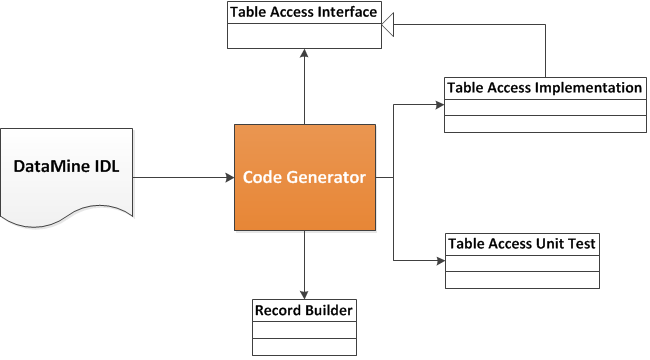
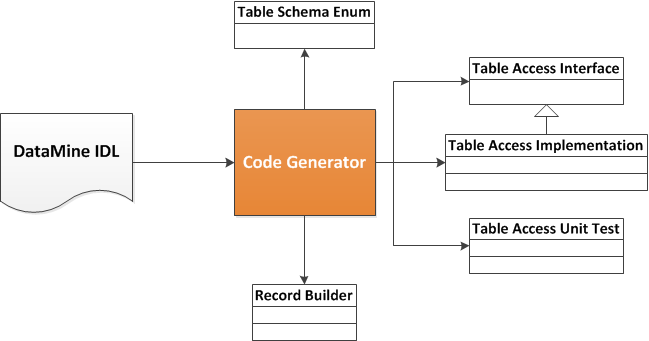
Documentation updated
1. Added a doc as the developer guide
2. Updated documents per the derived fields
3. Updated the figure for the code generation in the DataMine

diff --git a/RecordBuffers/README.md b/RecordBuffers/README.md
@@ -1,28 +1,20 @@
 # Record Buffers
 
-Record buffers are a flexible, efficient, automated mechanism for serializing structure data, especially for nested structure data. 
-It uses an interface description language (IDL) to describe the schema of data and allows the user easily to read and write the data with special generated source code. 
-Importantly record buffers support schema evolution, so it enables the deployed code for old format to work with the updated data structure.
+Record buffers are a flexible, efficient, automated mechanism for serializing structure data, especially for nested structure data. It uses an interface description language (IDL) to describe the schema of data and allows the user easily to read and write the data with special generated source code. Importantly record buffers support schema evolution, so it enables the deployed code for old format to work with the updated data structure.
 
 ## Why?
 
-Record buffers is not the only one solution while dealing with the big data problem in our case. For example, [Thrift](https://thrift.apache.org/), [Avro](http://avro.apache.org/) and [Protocol Buffers](https://code.google.com/p/protobuf/) provide the very similar ideas. However, record buffers have some advantages considering the special problem at Turn. For instance, the nested structure is normal in our application; record buffer does optimize the data accessing performance especially there is nested structure in the data. 
+Record buffers is not the only solution while dealing with the big data problem. For example, [Thrift](https://thrift.apache.org/), [Avro](http://avro.apache.org/) and [Protocol Buffers](https://code.google.com/p/protobuf/) provide the very similar ideas. However, record buffers have some advantages considering the special application at Turn. For instance, the nested structure is normal, table should be writable since the updating is a require, reading often occurs to a subset of fields of a table. Record buffers optimize the data accessing performance in these scenarios. 
 
 
-## IDL Specification
+## Table Schema
 
-Please see [DataMine IDL](../doc/DataMine_IDL.md).
+Record buffers define the table schema based on an IDL Specification. Please check the details at [DataMine IDL](../doc/DataMine_IDL.md).
 
 ## Code Generation
 <a name="code_generation"></a>
 
-
-Record buffers follow a code generation approach while building the representation layer for table access. Particularly a set of Java classes or interfaces are created automatically, including:
-
-* *Table Access Interface*: a Java interface is generated for each table defined in table schema, where the setter and getter functions are declared for each attribute of the table. 
-* *Table Access Implementation*: a Java class is generated for each table based on the file format (e.g,, row-based or column-based) and the representation in memory (e.g., POJO-class or Record Buffer).
-* *Record Builder*: a class is generated for the instance creation given a table interface. 
-* *Table Access Implementation Test*: a Java class is generated for each table defined in the table schema, to produce the data for possible unit tests. 
+Record buffers follow a code generation approach while building the representation layer for table access. Particularly a set of Java classes or interfaces are created automatically, describing table schema, table access interface, table access implementation, record builder and unit test respectively. 
 
 <img float="center" src="./doc/res/code_gen.png" width="" height="" border="0" alt="">
 
@@ -42,8 +34,8 @@ To enable such a code generation, the project POM should include the plugin belo
 						</goals>
 						<phase>${codeGenerationPhase}</phase>
 						<configuration>
-							<schemaPath>src/main/resources/AUPConf.json</schemaPath>
-							<packageName>application.package.interfaces</packageName>
+							<schemaPath>path/to/schema.json</schemaPath>				
+							<packageName>application.package.name.interfaces</packageName>
 						</configuration>
 					</execution>
 					<execution>
@@ -53,9 +45,9 @@ To enable such a code generation, the project POM should include the plugin belo
 						</goals>
 						<phase>${codeGenerationPhase}</phase>
 						<configuration>
-							<schemaPath>src/main/resources/AUPConf.json</schemaPath>
-							<packageName>application.package.operator.conversion</packageName>
-							<interfacePackageName>application.package.interfaces</interfacePackageName>
+							<schemaPath>path/to/schema.json</schemaPath>
+							<packageName>application.package.name.conversion</packageName>
+							<interfacePackageName>application.package.name.interfaces</interfacePackageName>
 						</configuration>
 					</execution>
 					<execution>
@@ -65,8 +57,8 @@ To enable such a code generation, the project POM should include the plugin belo
 						</goals>
 						<phase>${codeGenerationPhase}</phase>
 						<configuration>
-							<schemaPath>src/main/resources/AUPConf.json</schemaPath>
-							<packageName>application.package.metadata</packageName>
+							<schemaPath>path/to/schema.json</schemaPath>
+							<packageName>application.package.name.metadata</packageName>
 						</configuration>
 					</execution>
 					<execution>
@@ -76,10 +68,10 @@ To enable such a code generation, the project POM should include the plugin belo
 						</goals>
 						<phase>${codeGenerationPhase}</phase>
 						<configuration>
-							<schemaPath>src/main/resources/AUPConf.json</schemaPath>
-							<packageName>application.package.recordbuffers.wrapper</packageName>
-							<interfacePackageName>application.package.interfaces</interfacePackageName>
-							<metadataPackageName>application.package.metadata</metadataPackageName>
+							<schemaPath>path/to/schema.json</schemaPath>
+							<packageName>application.package.name.recordbuffers.wrapper</packageName>
+							<interfacePackageName>application.package.name.interfaces</interfacePackageName>
+							<metadataPackageName>application.package.name.metadata</metadataPackageName>
 						</configuration>
 					</execution>
 					<execution>
@@ -89,28 +81,10 @@ To enable such a code generation, the project POM should include the plugin belo
 						</goals>
 						<phase>${codeGenerationPhase}</phase>
 						<configuration>
-							<schemaPath>src/main/resources/AUPConf.json</schemaPath>
-							<packageName>application.package.recordbuffers.data</packageName>
-							<interfacePackageName>application.package.interfaces</interfacePackageName>
-							<metadataPackageName>application.package.metadata</metadataPackageName>
-						</configuration>
-					</execution>
-				</executions>
-			</plugin>
-			<plugin>
-				<groupId>com.turn.datamine.storage.avro</groupId>
-				<artifactId>avro-maven-plugin</artifactId>
-				<version>${datamine.version}</version>
-				<executions>
-					<execution>
-						<id>avro_parquet</id>
-						<goals>
-							<goal>avro_parquet_tables</goal>
-						</goals>
-						<phase>${codeGenerationPhase}</phase>
-						<configuration>
-							<schemaPath>src/main/resources/AUPConf.json</schemaPath>
-							<packageName>application.package.avro.parquet</packageName>
+							<schemaPath>path/to/schema.json</schemaPath>
+							<packageName>application.package.name.recordbuffers.data</packageName>
+							<interfacePackageName>application.package.name.interfaces</interfacePackageName>
+							<metadataPackageName>application.package.name.metadata</metadataPackageName>
 						</configuration>
 					</execution>
 				</executions>
@@ -119,7 +93,7 @@ To enable such a code generation, the project POM should include the plugin belo
 	</build>
 		
 
-Note that the two parameters can be configured:
+Note that there are parameters that can be configured:
 
 - *schemaPath* : the path where the schema JSON file is stored, for example, *src/main/resources/AUPConf.json*; it may be the same for all goals.
 - *packageName* : the package name of the output Java code, for example, *application.package.interfaces*; each goal may have its own unique package name. 
@@ -154,4 +128,3 @@ Currently, there are three types of attributes having their offsets in the refer
 1. The attribute as the table sort-key: it speeds up the record sorting;
 2. The attribute having the annotation of "hasRef": the attribute can be specified by the user if it is frequently accessed.
 3. The attribute of collection type (i.e., nested table): by default, any nested table has its offset stored in the referene section; according to our experience the nested table is often the hot spot. Having its offset in the reference section, it could significantly speed up some basic operations, like getting the size of the nested table. 
- 

diff --git a/doc/Developer_Guide.md b/doc/Developer_Guide.md
@@ -1,0 +1,148 @@
+# Developer Guide
+
+We will use an example to explain how to create an application using DataMine. In the application, a profile is defined to describe the user information. A user profile has not only basic attributes, such as ID, version, but also the nested tables for events, such as impressions, id mapping events, and temporal information.  DataMine allows to use JSON to define the data structure below. 
+
+Note that the example can be found at [..](../RecordBuffers/src/test/java/datamine/storage/recordbuffers/example)
+
+## Table Schema
+
+The table schema of the profile is defined in [JSON](../RecordBuffers/src/test/resources/SimpleSchema.json)
+
+	{
+	  "schema": "simple_schema",
+	  "table_list": [
+	    {
+	      "table": "attribution_result_rule",
+	      "fields": [
+	        {"id": 1,"name": "run_num",    "type": "Byte",   "isRequired": true},
+	        {"id": 2,"name": "value",      "type": "String", "default": "Unknown"}
+	      ]
+	    },
+	    {
+	      "table": "attribution_result",
+	      "fields": [
+	        {"id": 1,"name": "id","type": "Integer","isRequired": true},
+	        {"id": 2,"name": "rules",      "type": "List:attribution_result_rule", "isRequired": true}
+	      ]
+	    },
+	    {
+	      "table": "impression",
+	      "fields": [
+	        {"id": 1, "name": "media_provider_id", "type": "Integer","isRequired": true},
+	        {"id": 2,"name": "mp_tpt_category_id","type": "Short",  "default": "-1"},
+	        {"id": 3,"name": "truncated_url",     "type": "String", "default": "Unknown"},
+	        {"id": 4,"name": "bid",         "type": "Boolean",  "default": "true"},
+	        {"id": 5,"name": "bid_type",          "type": "Byte",   "default": "-1"},
+	        {"id": 6,"name": "attribution_results","type": "List:attribution_result"},
+	        {"id": 7,"name": "allowed_ad_formats","type": "Long",   "default": "-1"},
+			{"id": 8,"name": "cost","type": "Double",   "default": "0"}
+			]
+	    },
+	    {
+	      "table": "provider_user_id",
+	      "fields": [
+	        {"id": 1,"name": "provider_type",          "type": "Byte",   "isRequired": true},
+	        {"id": 2,"name": "provider_id",            "type": "Integer","isRequired": true}
+	      ]
+	    },
+	    {
+	      "table": "id_map",
+	      "fields": [
+	        {"id": 1,"name": "media_provider_ids","type": "List:provider_user_id"}
+	      ]
+	    },
+	    {
+	      "table": "analytical_user_profile",
+	      "fields": [
+	        {"id": 1,"name": "user_id",                 "type": "Long",   "isRequired": true, "isFrequentlyUsed": true},
+	        {"id": 2,"name": "version",         "type": "Byte", "isRequired": true, "isDesSortKey": true},
+	        {"id": 3,"name": "resolution",      "type": "Short",  "default": "-1"},
+	        {"id": 4,"name": "os_version",      "type": "String", "default": "Unknown"},
+	        {"id": 5,"name": "impressions",            "type": "List:impression"},
+	        {"id": 6,"name": "id_maps",                "type": "id_map"},
+			{"id": 7, "name": "time_list",     "type": "List:Integer"},
+			{"id": 0, "name": "day",     "type": "String", "isDerived": true, "default": "Unknown"}
+	      ]
+	    }
+	  ]
+	}
+
+
+## Code Generation
+
+DataMine implements a set of code generator to help the user create Java classes through which the user can write its program to read, write and process the profile data. To trigger the code generation when building the application, POM needs some [changes](../RecordBuffers#code_generation). 
+
+To simplify the example, a class [GenerateTestData.java](../RecordBuffers/src/test/java/datamine/storage/recordbuffers/example/GenerateTestData.java) is created to generate all codes. 
+
+## Derived Field Support
+
+DataMine allows derived attribute in the table. The value of a derived field is calculated on the fly instead of stored physically. Importantly the user or table owner should define the way how this calculation is done. For example, a class should be defined to implement the interface, [AnalyticalUserProfileDerivedValueInterface.java](../RecordBuffers/src/test/java/datamine/storage/recordbuffers/example/interfaces/AnalyticalUserProfileDerivedValueInterface.java), as a derived attribute "day" is introduced in the table of *analytical_user_profile*.  The implementation can be as follows:
+
+	public class AnalyticalUserProfileDerived implements
+			AnalyticalUserProfileDerivedValueInterface {
+	
+		private final AnalyticalUserProfileInterface aup;
+		
+		public AnalyticalUserProfileDerived(AnalyticalUserProfileInterface aup) {
+			this.aup = aup;
+		}
+		
+		@Override
+		public String getDay() {
+			return "Monday";
+		}
+	
+	}
+
+A setter function is defined to connect the implementation with the table access class. For instance, 
+
+	aup.setDerivedValueImplementation(new AnalyticalUserProfileDerived(aup));
+	String theDay = aup.getDay();
+
+
+
+## Read/Write RecordBuffers
+
+To create an empty record of *analytical_user_profile*, the user needs to create an instance of [RecordBuffersBuilder](../RecordBuffers/src/test/java/datamine/storage/recordbuffers/example/wrapper/builder/RecordBuffersBuilder.java). 
+
+	AnalyticalUserProfileInterface aup = new RecordBuffersBuilder().build(AnalyticalUserProfileInterface.class);
+	aup.setUserId(10000000);
+	aup.setOsVersion("ios4");
+	...
+
+
+DataMine supports reading records from the Hadoop File System. A writable object of [*RecordBuffer*](../RecordBuffers/src/main/java/datamine/storage/recordbuffers/RecordBuffer.java) can be used for serialization and de-serialization in the HDFS.  
+
+To write a record of *analytical_user_profile* in the HDFS,
+
+	SequenceFile.Writer writer = SequenceFile.createWriter(
+					FileSystem.get(conf), conf,  // Hadoop configuration
+					new Path("/file/to/write"),  // Output file path in the HDFS
+					LongWritable.class,          // User ID as the key
+					RecordBuffer.class,          // Record as the value
+					SequenceFile.CompressionType.BLOCK);
+	LongWritable id = new LongWritable(aup.getUserId());
+	RecordBuffer rb = ((Record<AnalyticalUserProfileMetadata>) aup.getBaseObject()).getRecordBuffer();
+	writer.append(id, rb);
+
+To read a record from the HDFS,
+
+	SequenceFile.Reader reader = new SequenceFile.Reader(
+					dfs,                           // Hadoop file system handler 
+					new Path("/file/to/read"),     // Input file path in the HDFS
+					conf);                         // Hadoop configuration
+	LongWritable userId = new LongWritable();
+	RecordBuffer rbuf = new RecordBuffer();
+	curAUPReader.next(userId, rbuf);
+	AnalyticalUserProfileInterface aup = new AnalyticalUserProfileRecord(
+					new Record<AnalyticalUserProfileMetadata>(
+							AnalyticalUserProfileMetadata.class, rBuf));
+
+
+
+## Schema Evolution
+
+It is possible to change the table schema according to the [rules](../README.md#schema-evolution-data-backward-compatibility). After changing the schema, the code generation above must be re-run. The implementation for derived fields may need to update if necessary. 
+
+## More than RecordBuffers: Columnar Storage
+

diff --git a/README.md b/README.md
@@ -67,6 +67,10 @@ The following guides are suggested:
 * [Code style guide](http://intranet.turn.com/display/ENG/Code+style+guide)
 * [Turn Automation - Coding Guidelines](http://intranet.turn.com/display/OffshoreDocs/Turn+Automation+-+Coding+Guidelines)
 
+## Developer Guide
+
+An example can be found at the [guide](doc/Developer_Guide.md) to explain how to use DataMine in the application. 
+
 ## License
 
 ```

diff --git a/doc/DataMine_IDL.md b/doc/DataMine_IDL.md
@@ -133,4 +133,4 @@ An example below illustrates the schema of "attribution" in the JSON format.
 	}
 
 
-[^1]: A recommended naming convention can be lowercase with infix underscoresas, following the pattern:  '^\[a\-zA\-Z\]\[a\-zA\-Z0\-9\_\]\*$'.
+[^1]: A recommended naming convention can be lower case with infix underscores, following the pattern:  '^\[a\-zA\-Z\]\[a\-zA\-Z0\-9\_\]\*$'.
